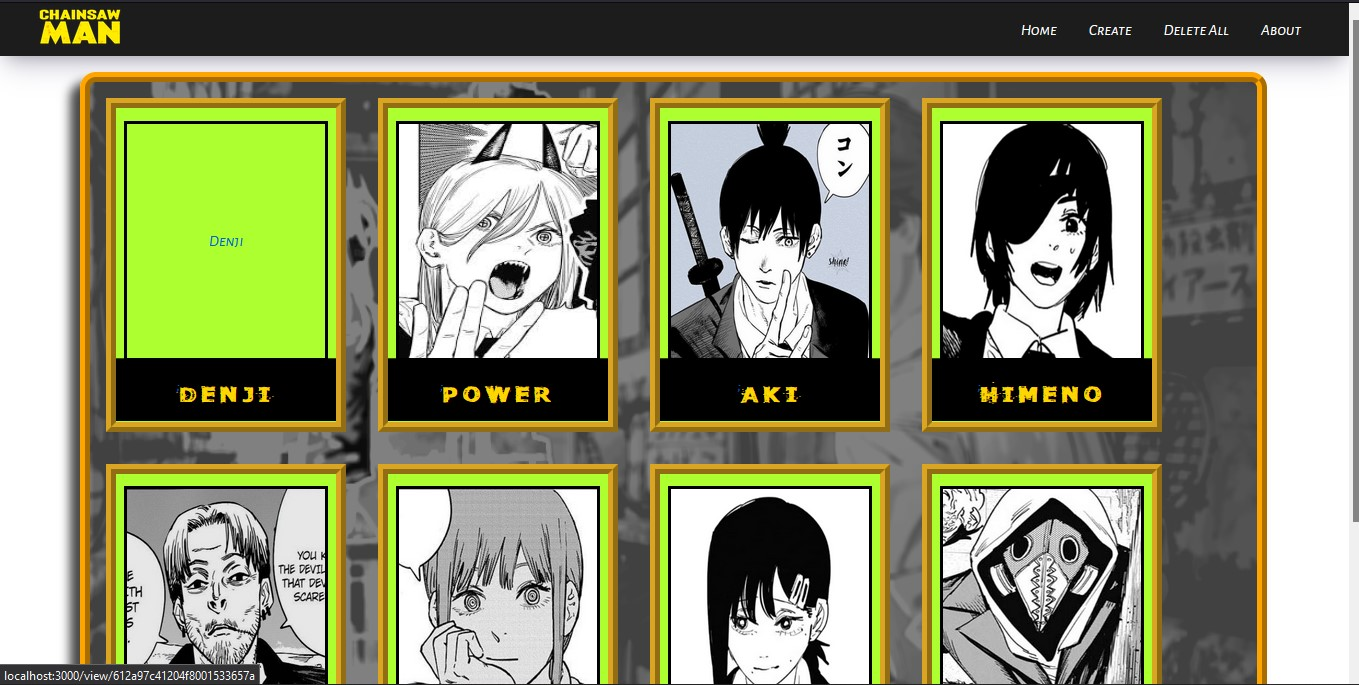
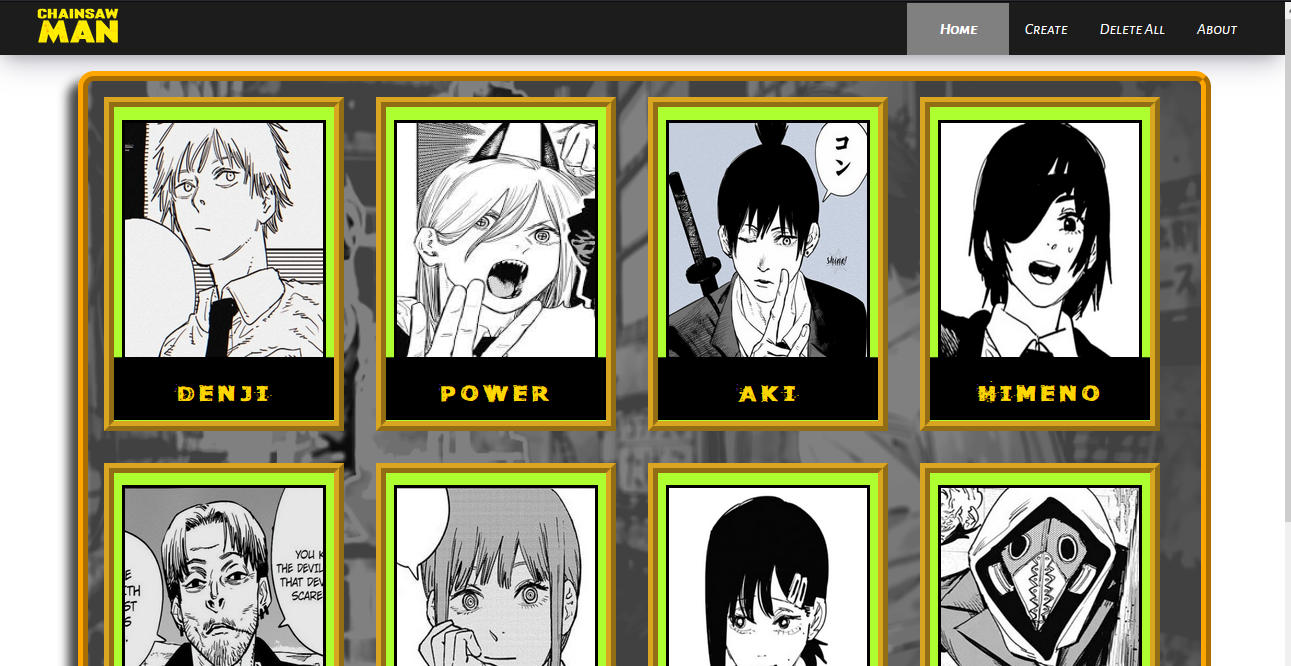
update posts and css

diff --git a/public/assets/styles/Slug.style.js b/public/assets/styles/Slug.style.js
@@ -4,6 +4,7 @@ export const Slug = styled.div`
 position: absolute;
 width: 80%;
   right: 0;
+  background-color: #d9d9d540;
   margin: 0rem 0 0 auto;
   padding: 20px 20px;
   @media (max-width: 1024px) {
@@ -23,7 +24,7 @@ width: 80%;
 export const Back = styled.div`
   border-bottom-left-radius: 10px;
   border-bottom-right-radius: 10px;
-
+  background-color: ${(props) => props.theme.pageBackground};
   padding: 15px 30px;
   color: white;
   font-size: 1.5rem;
@@ -55,16 +56,18 @@ export const Back = styled.div`
 
 export const Header = styled.div`
   padding: 10px 10px;
-
+  background-color: cadetblue;
   font-weight: 700;
+  border-top-left-radius: 10px;
+  border-top-right-radius: 10px;
   display: flex;
+  background-color: ${(props) => props.theme.pageBackground};
+  color: ${(props) => props.theme.titleColor};
   flex-direction: row;
   justify-content: space-evenly;
   align-items: center;
   h1 {
     text-transform: uppercase;
-    color: #dedede;
-    text-shadow: 0px 0px 10px #bebebe;
     font-weight: 900;
     font-size: 2.8rem;
     margin: 0px auto;
@@ -80,14 +83,12 @@ export const Header = styled.div`
   }
 `;
 export const Post = styled.div`
-  border-top-left-radius: 10px;
-  border-top-right-radius: 10px;
+ 
   background-color: ${(props) => props.theme.pageBackground};
   color: ${(props) => props.theme.titleColor};
   padding: 10px 0px;
   display: flex;
   flex-direction: column;
-  box-shadow: 0px 0px 10px  ${(props) => props.theme.titleColor};;
 `;
 
 export const Image = styled.div`
@@ -111,6 +112,7 @@ export const Data = styled.div`
   }
   p {
     font-size: 1.5rem;
+    font-weight: 700;
   }
   span {
     font-weight: 700;
@@ -120,7 +122,6 @@ export const Data = styled.div`
   a {
     text-decoration: underline;
     padding: 5px 5px;
-    margin: 0 0px 0 20px;
     font-size: 1.5rem;
     font-weight: 700;
 

diff --git a/public/assets/styles/Home.style.js b/public/assets/styles/Home.style.js
@@ -171,12 +171,10 @@ export const BioArea=styled.section`
   flex-wrap: wrap;
   justify-content: space-between; 
   padding :0 3rem ;
-  @media(max-width:820px){
     @media(max-width:1024px){
-  margin: 0  30px 0 auto;
+  margin: 0  auto;
 
     width: 500px;
-  }
   }
   @media(max-width:780px){
     margin: 0 auto;
@@ -184,6 +182,7 @@ export const BioArea=styled.section`
   }
   @media(max-width:480px){
     justify-content:center ;
+    width: 100%;
   }
   #Title-Project{
     width:100%;
@@ -198,6 +197,11 @@ export const ProjectArea=styled.section`
    width: 1050px;
    margin: 0 auto;
    overflow: hidden;
+   @media(max-width:1024px){
+  margin: 0  auto 0 80px;
+
+    width: 500px;
+  }
    @media(max-width:820px){
   margin: 0  120px 0 auto;
     width: 450px;
@@ -207,7 +211,6 @@ export const ProjectArea=styled.section`
     margin: 0 auto;
   }
   @media(max-width:480px){
-    width: 450px;
     justify-content:center ;
   }
   #Title-Project{
@@ -234,6 +237,10 @@ export const SkillsArea = styled.section`
   @media(max-width:780px){
     margin: 0 auto;
     padding: 0px 20px ;
+
+  }
+  @media(max-width:478px){
+    width: 100%;
 
   }
 #Title-Skills{

diff --git a/public/assets/styles/Carousel.style.js b/public/assets/styles/Carousel.style.js
@@ -10,6 +10,10 @@ export const CarouselBox = styled(Carousel)`
   .react-multiple-carousel__arrow--left {
     left: calc(4% - 22px);
     z-index: 999999;
+    @media (max-width: 1024px) {
+      left: calc(1% + 10px);
+
+    }
     @media (max-width: 820px) {
       left: calc(4% + 2px);
     }
@@ -23,15 +27,26 @@ export const CarouselBox = styled(Carousel)`
   }
 
   .react-multiple-carousel__arrow--right {
+    right: calc(4% - 22px);
+    z-index: 999999;
+    @media (max-width: 1024px) {
+      right: calc(1% - 10px);
+    }
+    @media (max-width: 820px) {
+      right: calc(4% + 2px);
+    }
     @media (max-width: 768px) {
       display: none;
-      left: calc(4% - 10px);
+      right: calc(4% - 10px);
+    }
+    @media (max-width: 478px) {
+      right: calc(4% - 10px);
     }
   }
   
   @media (max-width: 820px) {
     width: 100%;
-    margin: 0 100px;
+    margin: 0 auto 0 100px;
     padding: 10px 5px;
   }
   @media (max-width: 768px) {

diff --git a/pages/posts/[slug].js b/pages/posts/[slug].js
@@ -16,8 +16,9 @@ export default function Post({ post }) {
 
   return (
     <S.Slug>
-      <Header post={post.title}/>
       <Layout post={post.title}>
+      <Header post={post.title}/>
+
         {router.isFallback ? (
           <h2>Loading…</h2>
         ) : (
@@ -36,7 +37,7 @@ export default function Post({ post }) {
               <span>{post.tools}</span>
               </div>
               <div>
-              <p>Link do projeto: </p> {post.projectUrl?(<a target="_blank" rel="noopener noreferrer"  href={post.projectUrl}>Aqui</a>):(<span>Sem link  <img src="https://img.icons8.com/windows/32/000000/oops.png"/></span>)}
+              {post.projectUrl?(<a target="_blank" rel="noopener noreferrer" href={post.projectUrl}>Link do projeto aqui.</a>):(<p>Sem link do projeto... </p>)}
               </div>
             </S.Data>
               <Article content={post.content} />

diff --git a/pages/_app.js b/pages/_app.js
@@ -12,9 +12,6 @@ const themes={
 }
 export default function MyApp({Component,pageProps}){
   const [theme,setTheme]=useState('light')
-  const themeToggler = () => {
-    theme === 'light' ? setTheme('dark') : setTheme('light')
-}
 const changeTheme=()=>{
   if(theme==='light'){
     setTheme('dark')
@@ -26,11 +23,7 @@ const changeTheme=()=>{
       <SideBar>
         <ThemeProvider theme={themes[theme]}>
       <div
-        style={{
-          display: "flex",
-          flexDirection: "row",
-          justifyContent: "space-evenly",
-        }}
+    
       >
           <Component {...pageProps} />
       </div>

diff --git a/Components/Global/SideBar.js b/Components/Global/SideBar.js
@@ -29,7 +29,7 @@ export default function SideBar({children,home}){
     }
 
     return(
-        <div style={{display:'flex',flexDirection:'row'}}>
+        <div style={{width:'100%'}} >
         <S.SideBar moveBar={open?('0 0;'):('0  0 0 -16rem;')}>
 
             

diff --git a/public/assets/styles/Projects.style.js b/public/assets/styles/Projects.style.js
@@ -10,7 +10,12 @@ width: 300px;
 height: 400px;
 margin:0 20px ;
 overflow:hidden ;
-
+@media(max-width:1024px){
+    box-shadow: none;
+    border: 2px solid black;
+    height:400px ;
+margin:0 200px;
+  }
 
 @media(max-width:780px){
     box-shadow: none;

diff --git a/Components/Theme/Theme.js b/Components/Theme/Theme.js
@@ -5,7 +5,7 @@ export const LightTheme={
 }
  export  const DarkTheme={
     pageBackground:'#171717',
-    titleColor:"#dfdfdf",
-     skillsColor:"#00f0ff70"
+    titleColor:"#f2f2f2",
+     skillsColor:"#00f0ff90"
      
   }

diff --git a/public/assets/styles/Globals.css b/public/assets/styles/Globals.css
@@ -19,7 +19,7 @@ body{
     }
 
 
-    #teste{
+    /* #teste{
         background-color: wheat;
         width: 80%;
-    }
+    } */

diff --git a/public/assets/styles/Bio.style.js b/public/assets/styles/Bio.style.js
@@ -1,7 +1,6 @@
 import styled from "styled-components";
 
 export const Bio=styled.div`
-
     
 `
 

diff --git a/_posts/Cadastro.md b/_posts/Cadastro.md
@@ -5,39 +5,44 @@ id: 1
 coverImage: '/assets/img/Cadastro.jpg'
 projectUrl: 'https://github.com/Kaue-LS/Projeto-M.E.R.N'
 date: '2022-03-08T05:35:07.322Z'
-tools: 'M.E.R.N Stack / React.js / Node.js / Express.js / Mongooose / Axios / Rest API'
+tools: ' M.E.R.N Stack | Rest API'
 ogImage:
   url: '/assets/blog/hello-world/cover.jpg'
 ---
+## Ferramentas utilizadas:
+- ### [React.js ](https://reactjs.org/) 
+- ### [Node.js](https://nodejs.org/en/) 
+- ### [Express.js](https://www.npmjs.com/package/express) 
+- ### [Mongoose](https://www.npmjs.com/package/mongoose)
+- ### [Axios](https://www.npmjs.com/package/axios)
 
-## Sobre o projeto:
+# Sobre o projeto:
 
 O projeto foi feito com o objetivo de aprender sobre criação de rotas, autenticação e cadastro de ususarios feitos no Back-end. 
 
 ## Estrutura:
   Está dividido em duas pastas, uma de Back-End e outra Front-End
-  # Back-End:
+  ### Back-End:
   Contém o banco de dados que pode ser inicializado na máquina, as pastas contém as principais funções:
   
-  **-Models**: Responsável para a criar a estrutura do banco de dados.
+  **- Models**: Responsável para a criar a estrutura do banco de dados.
 
-  **-Controllers**: Realiza o CRUD (Create, Read, Update, Read) do banco de dados além de também as autentções do usuário.  
+  **- Controllers**: Realiza o CRUD (Create, Read, Update, Read) do banco de dados além de também as autentções do usuário.  
 
   As rotas para realizar cada função está no arquivo **routes.js**.  <br />
 
   Para iniciar é preciso ter instalado o **MongoCompass** e pegar o endereço que esta no **server.js** para ativar o banco de dados. Após isso, no terminal digite **node server.js** ou instale o **nodemon server.js** para alterar automaticamente o banco de dados caso haja aguma.
 
 
-## Front-End:
+### Front-End:
   Localizada na pasta **cadastro**
 
-  # Estrutura:
-  **-Pages**: Contem as páginas do site. As **rotas** estão no arquivo **Router.js**.
+   **- Pages**: Contem as páginas do site. As **rotas** estão no arquivo **Router.js**.
 
-  **-Services**: Contém as condições para que o administrador tenha o sidebar e rotas privadas, autenticação jwt, e também a conexão da API.
+  **- Services**: Contém as condições para que o administrador tenha o sidebar e rotas privadas, autenticação jwt, e também a conexão da API.
 
-  **-Components**: Partes da página, como página não encontrada, navbar e sidebar.
+  **- Components**: Partes da página, como página não encontrada, navbar e sidebar.
   
-  **-Styes**: A estilização da página.
+  **- Styes**: A estilização da página.
   
 

diff --git a/_posts/Portfolio.md b/_posts/Portfolio.md
@@ -5,16 +5,37 @@ coverImage: '/assets/img/Portifolio.jpg'
 projectUrl: 'https://github.com/Kaue-LS/Portfolio'
 id: 4
 date: '2022-03-08T05:35:07.322Z'
-tools: 'Next.js / Styled-Components / remark / gray-matter / date-fns / MarkDown'
+tools: 'Next.js | Styled-Components | remark | gray-matter | date-fns | MarkDown'
 ogImage:
   url: '/assets/blog/dynamic-routing/cover.jpg'
 ---
 
+
+## Ferramentas utilizadas:
+- ### [Next.js ](https://nextjs.org/) 
+- ### [Styled-Components](https://styled-components.com/)
+- ### [Remark](https://github.com/remarkjs/remark#:~:text=remark%20is%20a%20very%20popular%20ecosystem%20of%20plugins,deal%20with%20markdown.%20We%20call%20those%20programs%20plugins.)
+- ### [gray-matter](https://www.npmjs.com/package/gray-matter)
+- ### [date-fns](https://date-fns.org/)
+- ### [markDown](https://www.markdownguide.org/)
+# Sobre o projeto:
+
 O projeto teve como referencia o exemplo do próprio repositório do Next no GitHub, e com projeto de blog pessoas desenvolvido nas aulas da Blue Edtech.
 
--Blog-starter:https://github.com/vercel/next.js/tree/canary/examples/blog-starter?msclkid=4279421ea63211ec9b7be5d3f5d92707
+- ### [Blog-starter](https://github.com/vercel/next.js/tree/canary/examples/blog-starter?msclkid=4279421ea63211ec9b7be5d3f5d92707)
 
--Meu projeto de Blog com Next.js: https://github.com/Kaue-LS/Next-Blog
+- ### [Meu projeto de Blog com Next.js](https://github.com/Kaue-LS/Next-Blog)
+
+## Estrutura do projeto:
+ **-** Os dados de cada projeto feito estão na pasta **_posts**;
+ 
+ **-** Os Components do projeto estão na pasta **Components**, onde estão os templates de cada parte da página incial como também o SideBar e tema;
+
+ **-** As funções de converter arquivos MarkDown para elementos HTML, e formatando datas, estão na pasta **Lib**;
+
+ **-** A página principal está no arquivo **index.js** na pasta **pages**, onde há a pasta com o template para cada projeto **[slug].js**;
+
+ **-** Estilizações e imagens estão na pasta **public**;
 
 Além de ser feito com Next.js, foi utilizado post em markdown para mostrar os meus projetos já desenvolvidos.
 O projeto ainda está em desenvolvimento...
